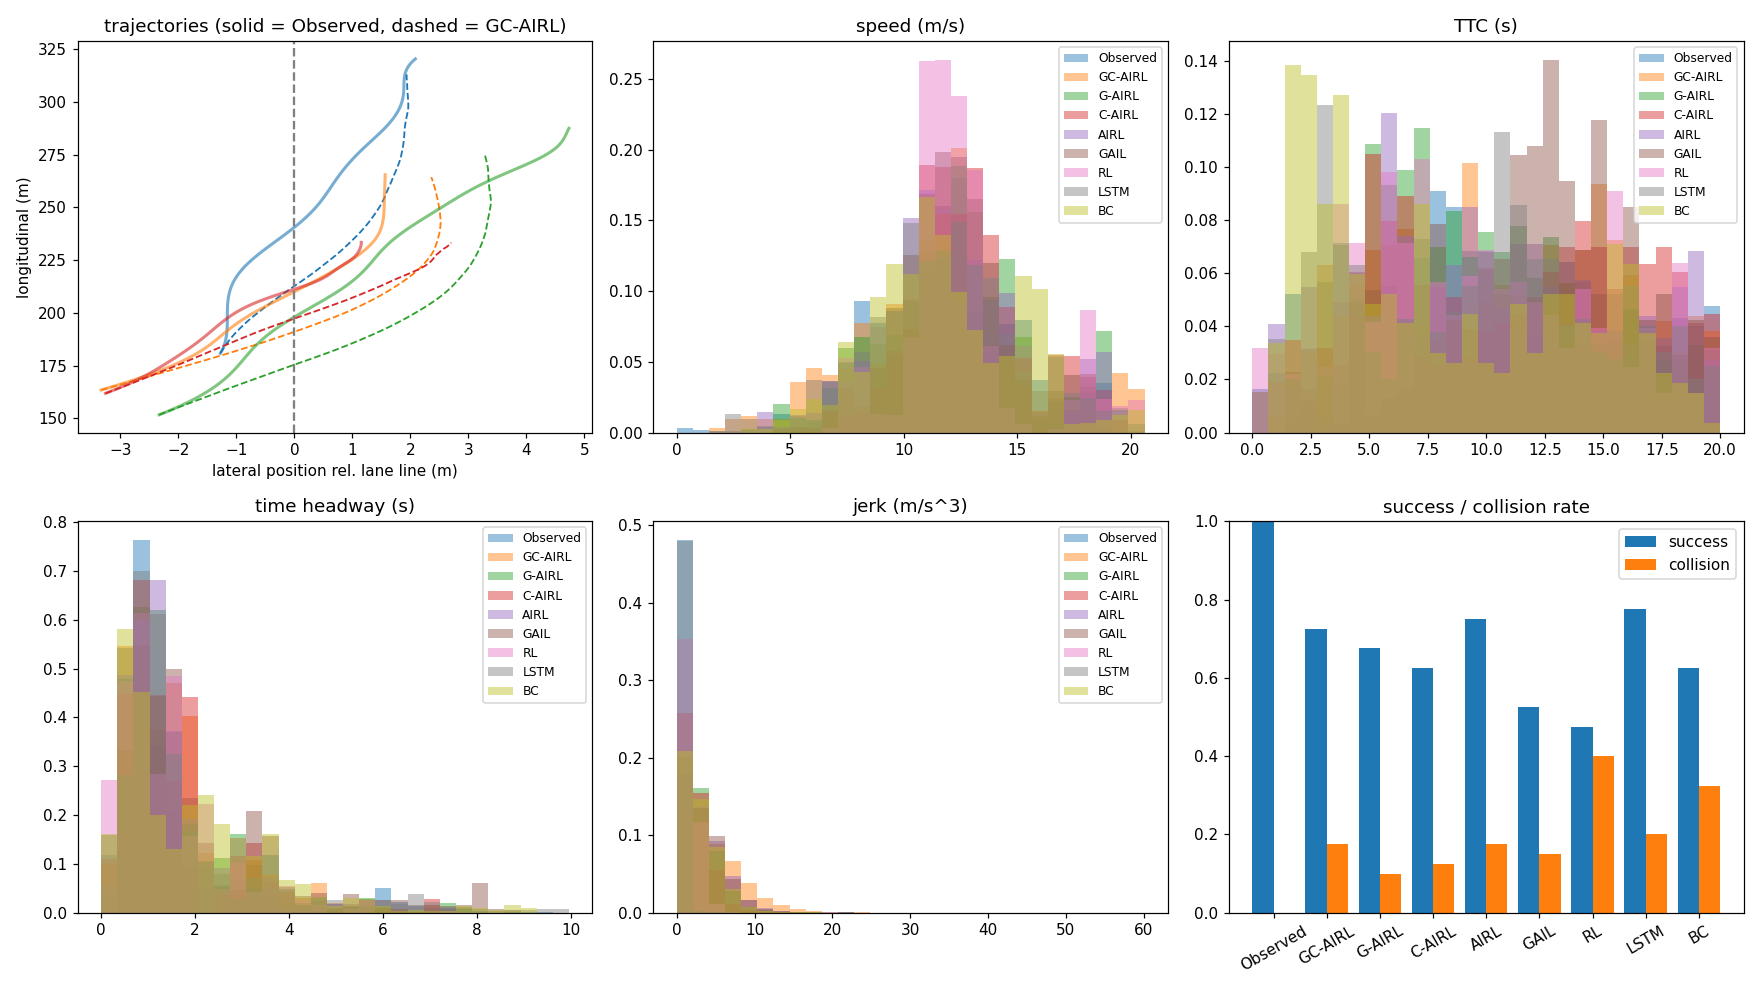
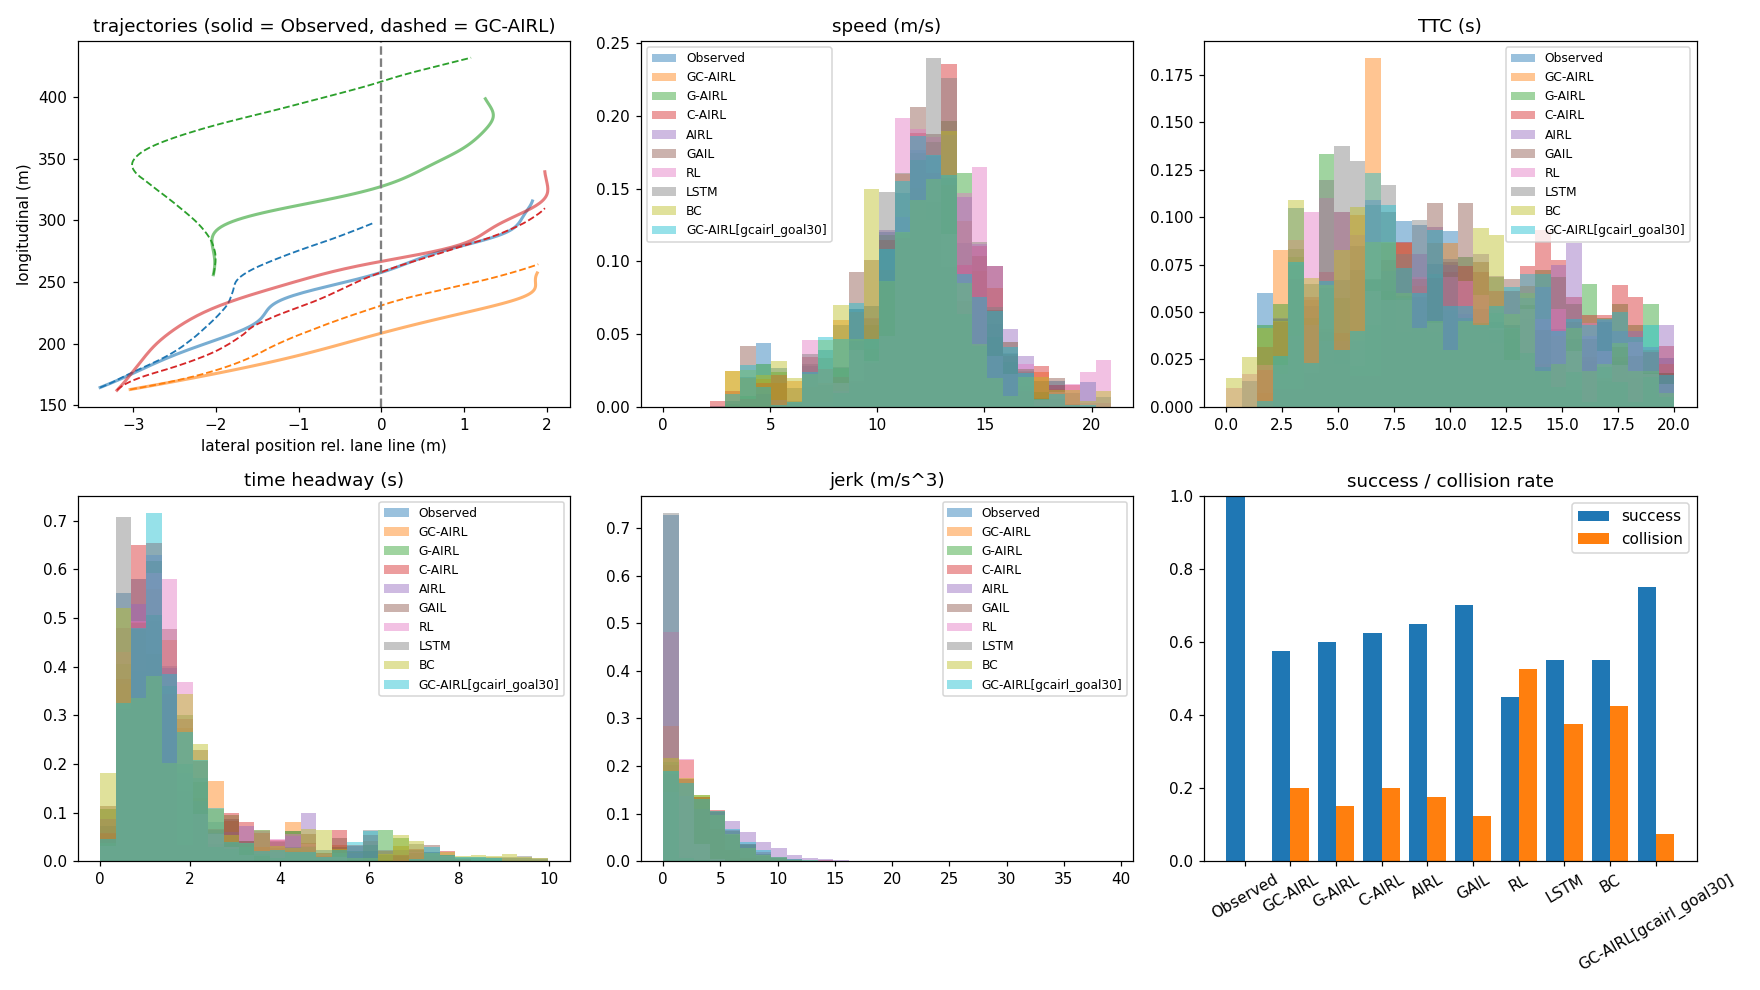
Rerun all US-101 experiments on the complete NGSIM data
The earlier results used the Excel-truncated .csv files (260 scenes).
With the full .txt data (333 scenes) and three seeds, GC-AIRL with the
paper's goal reward ties AIRL (0.633 vs 0.640), the ablation order is
not reproduced, and GC-AIRL with goal reward 30 is the strongest model
(0.713, collision 0.118), though less clearly so at the last checkpoint.
The RL target-lane safety term is re-validated on the new split. Also
pin shell scripts to LF line endings.

diff --git a/CHECKLIST.md b/CHECKLIST.md
@@ -4,8 +4,8 @@
 
 - [x] 下载目标论文 PDF（放在上级目录，不进仓库）
 - [x] 下载 AIRL 论文（2026，*AI for Transportation*），后续扩展用
-- [x] 下载 NGSIM US-101（`../data/US-101-LosAngeles-CA.zip`，完整）
-- [ ] **重新下载 `I-80-Emeryville-CA.zip`**：现在这个只有 82 MB，下载中断了，里面只有航拍图的前一部分，没有轨迹数据
+- [x] 下载 NGSIM US-101（`../data/US-101-LosAngeles-CA.zip`，完整；包里的 .csv 被 Excel 截断，要用 .txt）
+- [ ] **重新获取 I-80 轨迹**：`I-80-Emeryville-CA.zip` 两次下载都断在 82 MB，没有轨迹数据。可以在 data.transportation.gov 按 Location = i-80 只导出轨迹，或换支持断点续传的工具重下（只影响表 4）
 - [x] 建 GitHub 仓库：https://github.com/bianselong97/gc-airl-merging-reproduction
 - [ ] 确定目标：演示版还是完整复现加改进
 - [ ] （不急）highD / exiD：论文没用，只在做额外迁移实验时才需要申请
@@ -25,12 +25,13 @@
 - [x] 结果和调试记录写进 README
 
 ### 拿到 NGSIM 后
-- [x] NGSIM 适配器支持官方分时段文件（.csv / .txt）
-- [x] 跑 US-101 数据处理：260 个场景（论文 164 条，差异见 README），车道线拉直、换道检测修正
+- [x] NGSIM 适配器支持官方分时段文件（.csv / .txt，优先 .txt）
+- [x] 跑 US-101 数据处理：333 个场景（论文 164 条，差异见 README），车道线拉直、换道检测修正
+- [x] 发现官方 .csv 被 Excel 截断（每个时段正好 1,048,576 行），改用完整的 .txt，全部实验重跑
 - [x] 训练全部模型，得到表 2、表 3 的第一版结果（单种子）
-- [x] 3 个随机种子：AIRL 0.767 ± 0.015，GC-AIRL 0.715 ± 0.045，GC-AIRL 的优势没有复现
-- [x] 诊断 GC-AIRL：目标奖励被淹没，调到 30 后与 AIRL 打平；β 变平反而更差（README）
-- [x] RL 基线：安全项加入目标车道前后车 TTC，成功率 0.50 → 0.69（论文 0.77），碰撞率 0.29 仍偏高
+- [x] 3 个随机种子（完整数据）：GC-AIRL 0.633 ± 0.045，AIRL 0.640 ± 0.064，按论文设定 GC-AIRL 的优势没有复现
+- [x] 诊断 GC-AIRL：目标奖励被淹没，调到 30 后成为最好的模型（0.713 / 碰撞 0.118），但换最后一轮检查点时不稳健；β 变平反而更差（README）
+- [x] RL 基线：安全项加入目标车道前后车 TTC，两套数据上都更好；但完整数据上只有 0.46 / 碰撞 0.46（论文 0.77 / 0.125），仍是最弱的基线
 - [ ] 表 4（I-80 迁移），等 I-80 数据
 
 ### 收尾
